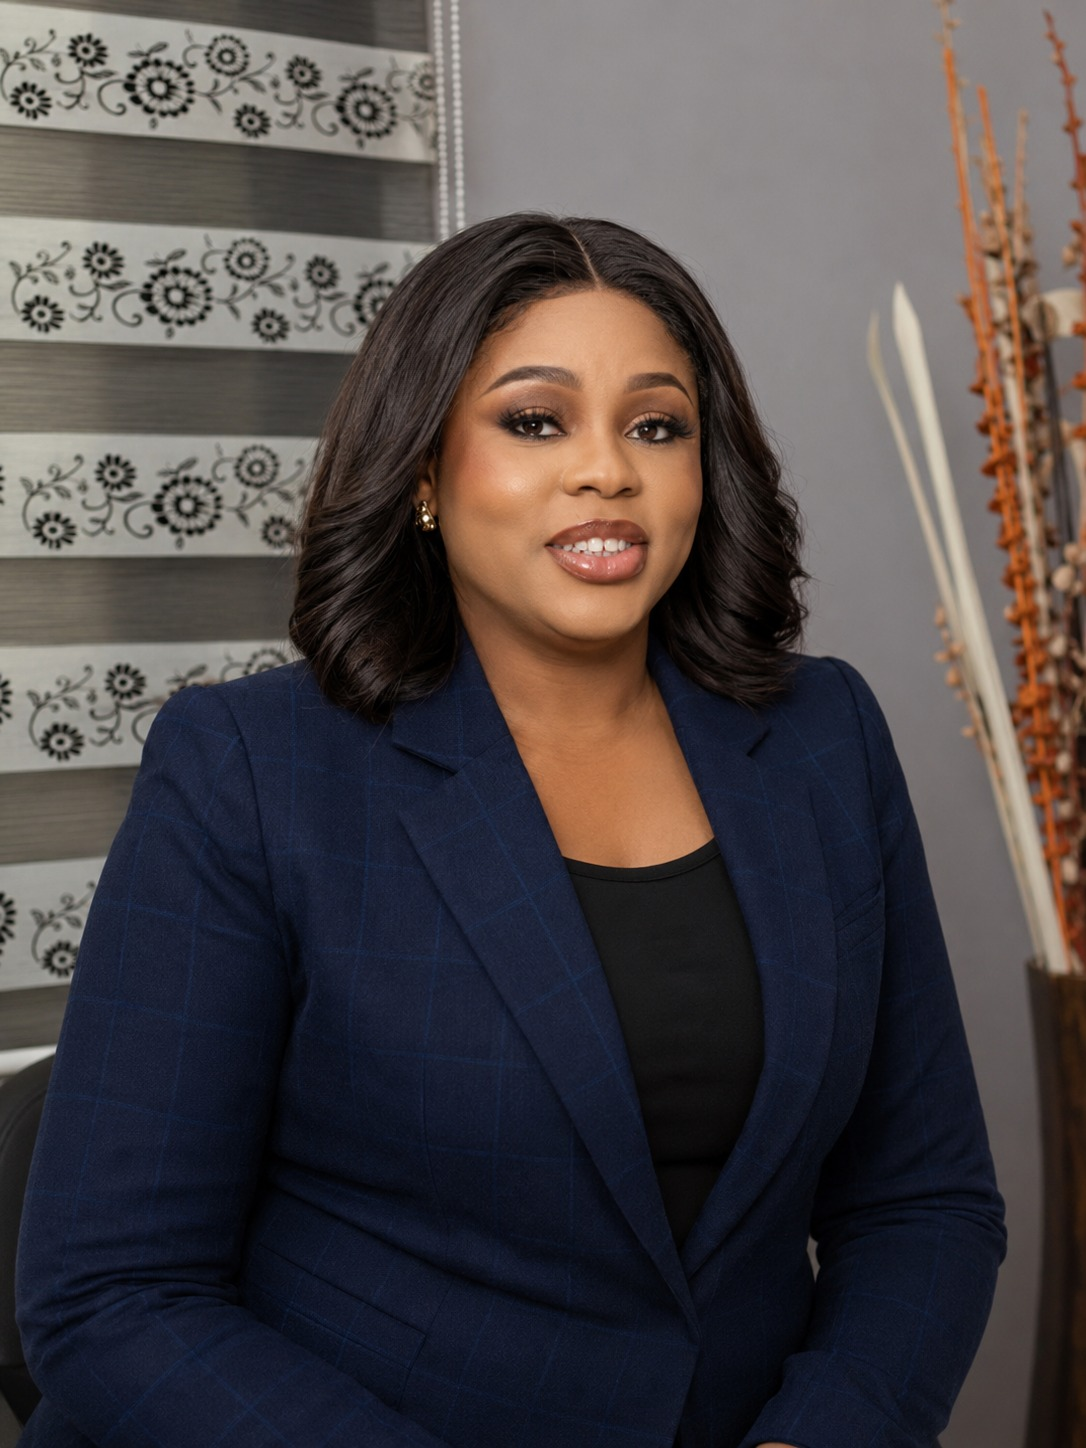
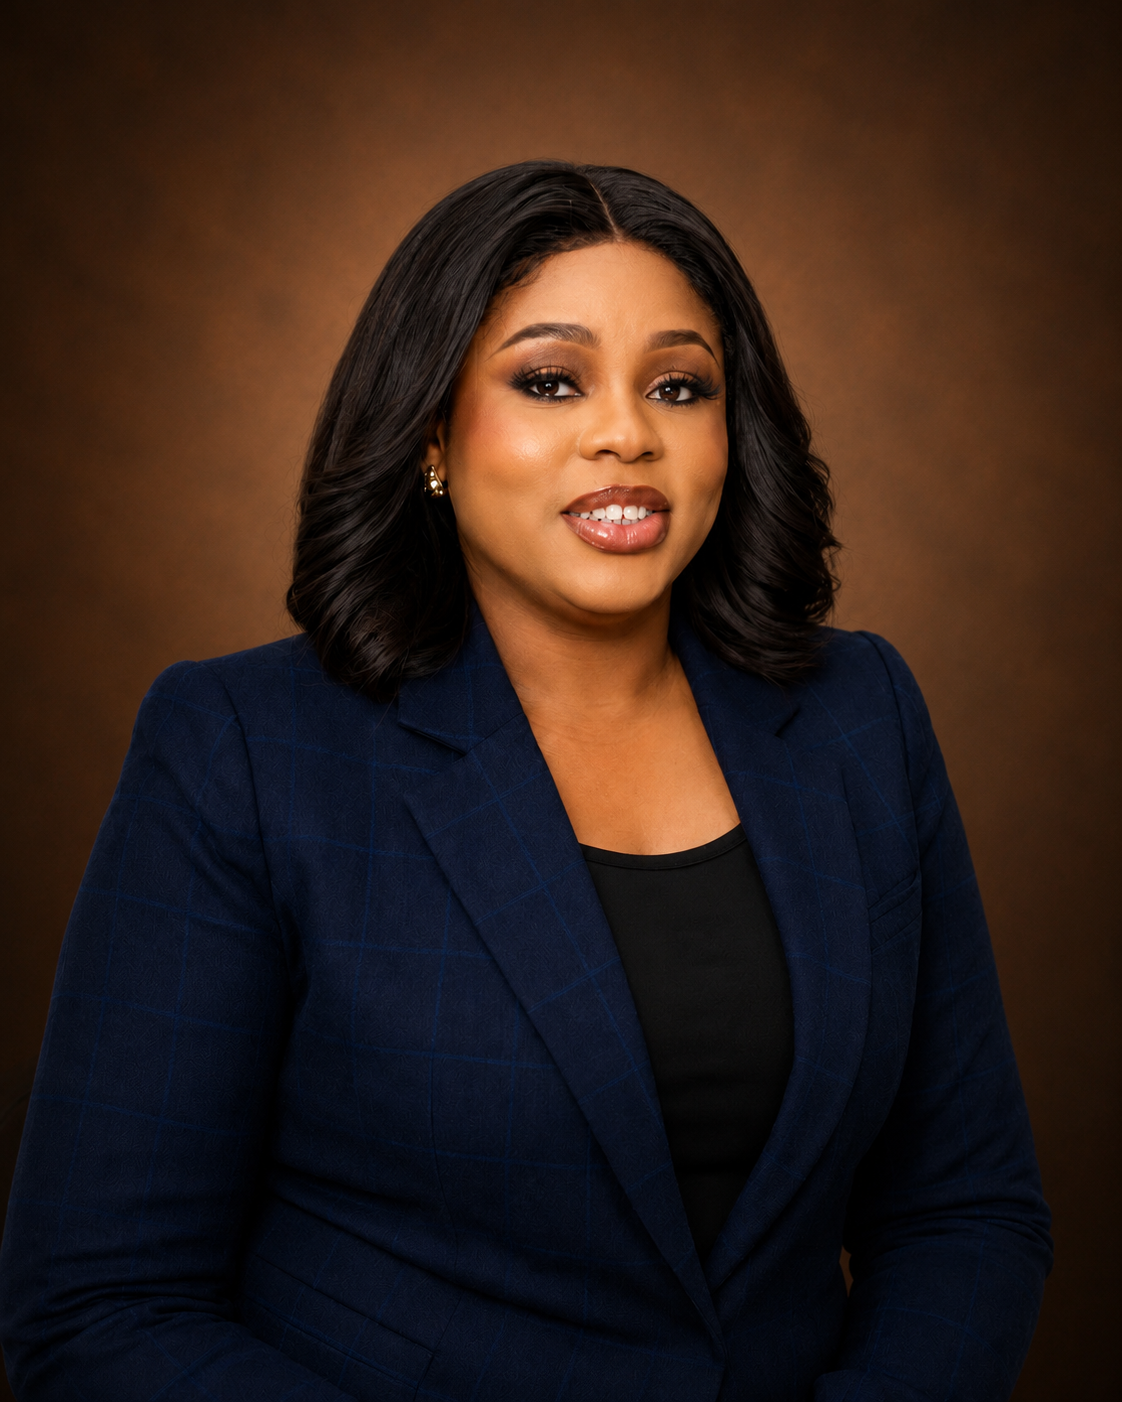
Update HR and Business Dev Manager photos; add Deputy MD name

diff --git a/team.html b/team.html
@@ -275,6 +275,9 @@
         <div class="flip-card-inner">
           <div class="flip-card-front">
             <img src="brand_assets/team-photos/PHOTO-2026-07-01-09-55-16.jpg" alt="Deputy MD & Financial Director portrait">
+            <div class="flip-card-label">
+              <h3 class="text-body-md font-semibold text-ink">Idoniboye-Obu Otonye</h3>
+            </div>
           </div>
           <div class="flip-card-back">
             <div class="icon-tile mb-4"><i data-lucide="drafting-compass" class="w-4.5 h-4.5"></i></div>
